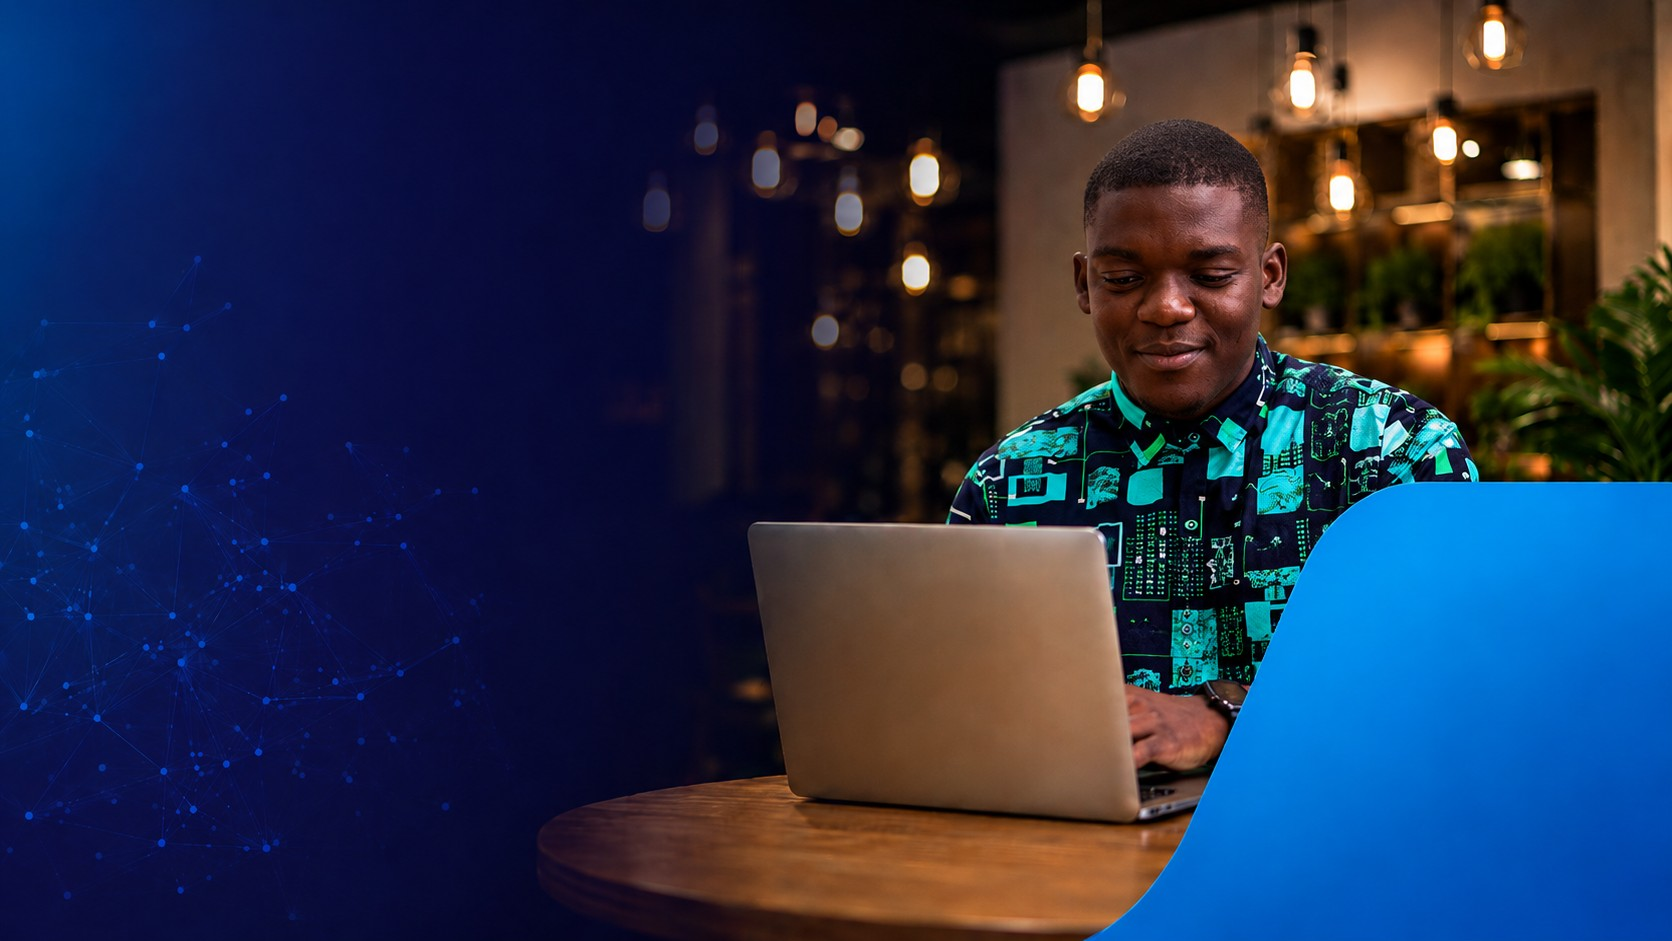
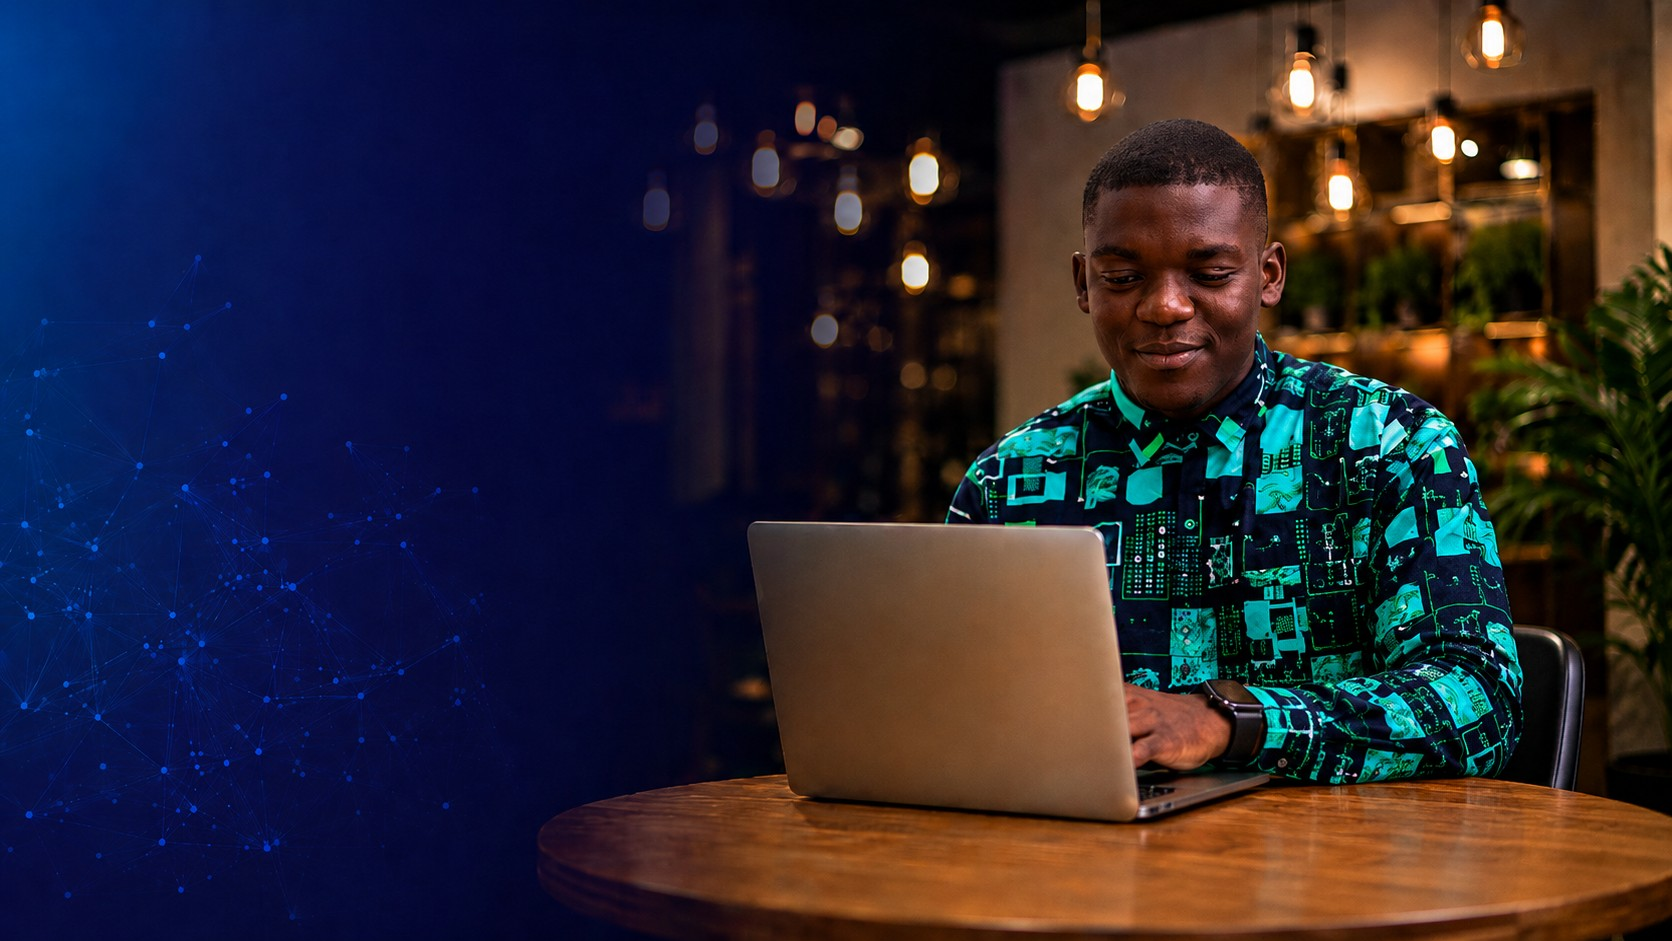
redesign(login): swap to accent-free background; blue panel is sole accent
Replace the background with the version that has the photo's blue accent
removed. The HTML brand-blue panel now provides the blue accent on its own,
so the Vision/Mission copy still sits fully on the blue with the subject's
face clear above it. Update the comment to match (no photo accent to blend).

Claude-Session: https://claude.ai/code/session_01EiauBhkKzJizsmfXsaLFTe

diff --git a/components/modules/Login.tsx b/components/modules/Login.tsx
@@ -100,10 +100,10 @@ export default function Login() {
         style={{ background: 'linear-gradient(90deg, rgba(4,10,24,0) 60%, rgba(4,10,24,0.22) 100%)' }}
         aria-hidden="true" />
 
-      {/* ── Brand-story accent panel (lower-right): a brand-blue panel that blends
-          into the photo's blue curved accent so the copy sits fully on the blue.
-          Real HTML text, crisp at any resolution. Vision first, Mission below.
-          Hidden below lg where the sign-in card takes over the full width. */}
+      {/* ── Brand-story accent panel (lower-right): a self-contained brand-blue
+          panel (rounded top-left curve) that provides the blue accent and holds
+          the copy fully on the blue. Real HTML text, crisp at any resolution.
+          Vision first, Mission below. Hidden below lg where the card is full width. */}
       <div className="pointer-events-none absolute bottom-0 right-0 z-10 hidden max-w-[430px] flex-col gap-6 rounded-tl-[110px] pb-[9vh] pl-11 pr-10 pt-14 lg:flex"
         style={{ background: 'linear-gradient(150deg, #0b82e4 0%, #0559c1 60%, #034aa6 100%)' }}>
         {/* Our Vision */}
